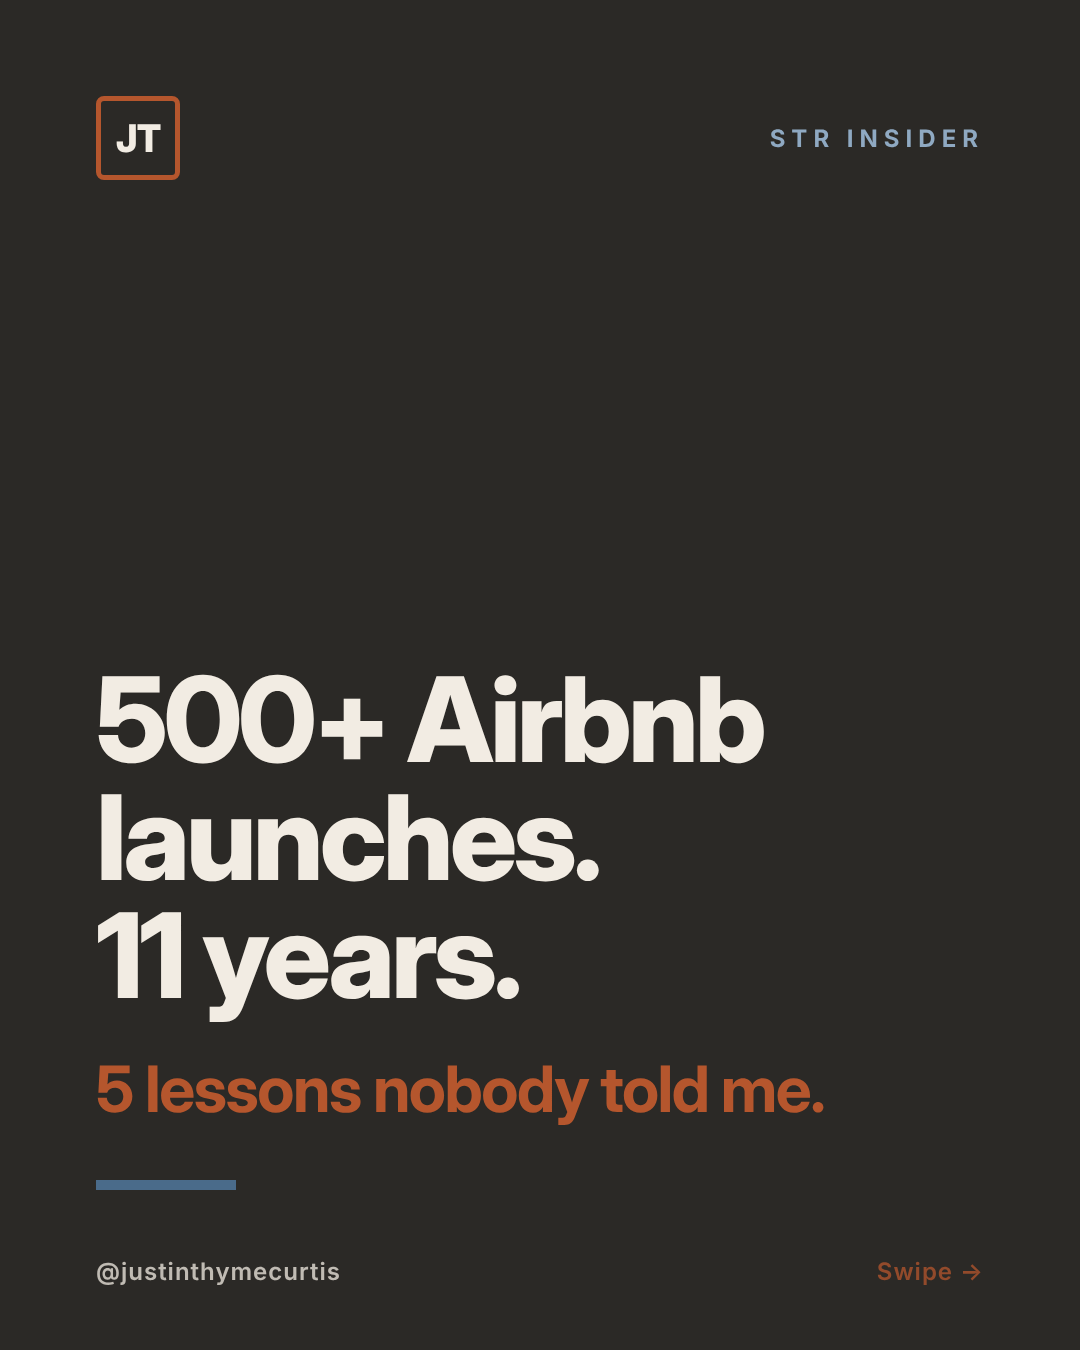
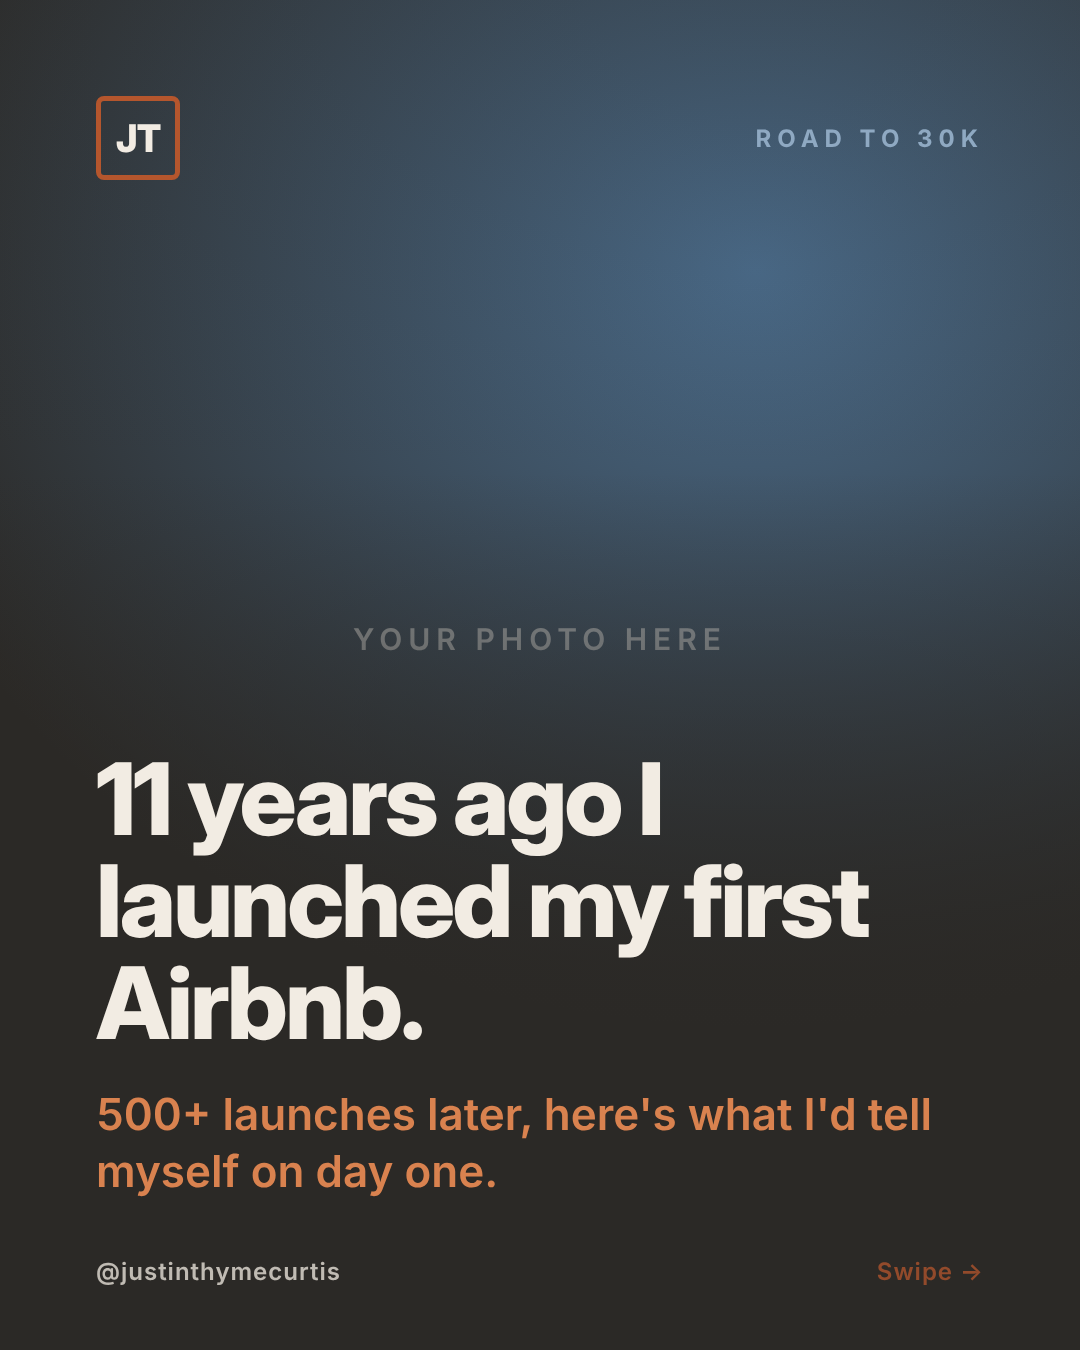
Restyle to founder story format (Bloom model) and add data playbook
Photo story cover, personal notes on lesson slides, headshot on closing slide, style guide with format data and video workflow.

Claude-Session: https://claude.ai/code/session_019QxW33UDb1Vgn4Nz2RddmB

diff --git a/scripts/render_carousel.py b/scripts/render_carousel.py
@@ -5,6 +5,7 @@ Usage:
 
 Output goes to exports/<slug>/slide-01.png and so on.
 """
+import base64
 import html
 import json
 import sys
@@ -19,6 +20,16 @@ W, H = 1080, 1350
 
 def esc(text: str) -> str:
     return html.escape(text).replace("\n", "<br>")
+
+
+def photo_uri(base: Path, rel):
+    if not rel:
+        return None
+    f = (base / rel)
+    if not f.exists():
+        return None
+    mime = "image/png" if f.suffix.lower() == ".png" else "image/jpeg"
+    return f"data:{mime};base64," + base64.b64encode(f.read_bytes()).decode()
 
 
 def monogram(color_text: str) -> str:
@@ -50,13 +61,37 @@ body { font-family: 'Inter', sans-serif; -webkit-font-smoothing: antialiased; }
 .cta h1 { font-family:'Inter Display'; font-weight:800; font-size:132px; letter-spacing:-5px; line-height:1; margin-top:auto; }
 .cta p { font-size:42px; line-height:1.45; margin-top:44px; max-width:880px; opacity:.92; }
 .cta .accent { font-family:'Inter Display'; font-weight:700; font-size:50px; color:%(rust)s; margin-top:56px; line-height:1.2; letter-spacing:-1px; margin-bottom:40px; }
+.story { background:%(charcoal)s; color:%(sand)s; padding:0; }
+.story .bg { position:absolute; inset:0; background-size:cover; background-position:center; }
+.story .ph { position:absolute; inset:0; background:radial-gradient(120%% 80%% at 70%% 20%%, %(denim)s 0%%, %(charcoal)s 70%%); }
+.story .ph span { position:absolute; top:46%%; left:0; right:0; text-align:center; font-size:30px; letter-spacing:6px; opacity:.45; font-weight:600; }
+.story .shade { position:absolute; inset:0; background:linear-gradient(180deg, rgba(43,41,38,.15) 0%%, rgba(43,41,38,0) 35%%, rgba(43,41,38,.88) 72%%, rgba(43,41,38,.97) 100%%); }
+.story .inner { position:relative; height:100%%; padding:96px 96px 150px; display:flex; flex-direction:column; }
+.story h1 { font-family:'Inter Display'; font-weight:800; font-size:100px; line-height:1.02; letter-spacing:-3px; margin-top:auto; }
+.story .accent { font-size:44px; line-height:1.3; margin-top:32px; color:%(rust_light)s; font-weight:600; }
+.lesson .note { margin-top:40px; padding-left:28px; border-left:6px solid %(rust)s; font-size:34px; line-height:1.4; font-style:italic; color:%(denim)s; max-width:860px; }
+.cta .avatar { width:220px; height:220px; border-radius:50%%; background-size:cover; background-position:center; border:6px solid %(rust)s; margin-top:auto; margin-bottom:48px; }
+.cta .avatar + h1 { margin-top:0; }
 """ % {"W": W, "H": H, **PALETTE}
 
 
-def slide_html(s: dict, i: int, total: int, handle: str) -> str:
+def slide_html(s: dict, i: int, total: int, handle: str, base: Path) -> str:
     t = s["type"]
     counter = f"{i}/{total}"
-    if t == "cover":
+    photo = photo_uri(base, s.get("photo"))
+    if t == "story_cover":
+        bg = f'<div class="bg" style="background-image:url({photo})"></div>' if photo else '<div class="ph"><span>YOUR PHOTO HERE</span></div>'
+        body = f"""
+        <div class="slide story">
+          {bg}<div class="shade"></div>
+          <div class="inner">
+            <div class="top">{monogram(PALETTE['sand'])}<div class="kicker">{esc(s['kicker'])}</div></div>
+            <h1>{esc(s['title'])}</h1>
+            <div class="accent">{esc(s['accent'])}</div>
+          </div>
+          <div class="foot"><span>{handle}</span><span class="swipe">{esc(s.get('footer','Swipe'))} &rarr;</span></div>
+        </div>"""
+    elif t == "cover":
         body = f"""
         <div class="slide dark cover">
           <div class="top">{monogram(PALETTE['sand'])}<div class="kicker">{esc(s['kicker'])}</div></div>
@@ -73,12 +108,14 @@ def slide_html(s: dict, i: int, total: int, handle: str) -> str:
           <h2>{esc(s['title'])}</h2>
           <div class="rule"></div>
           <p>{esc(s['body'])}</p>
+          {f'<div class="note">{esc(s["note"])}</div>' if s.get("note") else ''}
           <div class="foot"><span>{handle}</span><span>{counter}</span></div>
         </div>"""
     else:
         body = f"""
         <div class="slide dark cta">
           <div class="top">{monogram(PALETTE['sand'])}<div class="kicker">{esc(s['kicker'])}</div></div>
+          {f'<div class="avatar" style="background-image:url({photo})"></div>' if photo else ''}
           <h1>{esc(s['title'])}</h1>
           <p>{esc(s['body'])}</p>
           <div class="accent">{esc(s['accent'])}</div>
@@ -97,7 +134,7 @@ def main(post_dir: str) -> None:
         browser = p.chromium.launch()
         page = browser.new_page(viewport={"width": W, "height": H})
         for i, s in enumerate(slides, start=1):
-            page.set_content(slide_html(s, i, len(slides), data["handle"]))
+            page.set_content(slide_html(s, i, len(slides), data["handle"], post))
             page.wait_for_timeout(150)
             page.screenshot(path=str(out / f"slide-{i:02d}.png"))
         browser.close()

diff --git a/brand/style-guide.md b/brand/style-guide.md
@@ -1,0 +1,36 @@
+# Style Guide and Data Playbook
+
+## The model: Bloom (Greg LaVecchia and Mari Llewellyn)
+Bloom grew from a founder's personal transformation post into a nine figure brand. What we copy:
+* **Founder story first.** The origin and transformation story is the anchor of trust. For Justin: 11 years, 500+ launches, mindset and discipline.
+* **Routine and day in the life.** Real routines over polished ads. For Justin: launch days, property walkthroughs, training, Sunday planning.
+* **Plain, relatable language.** No hype, no clinical claims. Explain things like a friend would.
+* **Community in the loop.** Ask followers what to cover next and show their input on screen.
+* **Creators and collabs.** Bloom's creator videos averaged roughly 8x the views of its own brand videos. For Justin: collab posts with hosts, investors, trainers, and local San Diego creators.
+* What we do NOT copy: Bloom's pastel palette. Justin's look stays neutral, masculine and warm.
+
+## Data that drives the plan
+* Carousels are the top engagement format on Instagram (about 0.50% vs 0.48% for Reels and 0.33% for images, Socialinsider Q2 2026).
+* For accounts with 1K to 5K followers, carousels average 993 views vs 580 for Reels and 417 for images (Socialinsider).
+* Reels drive the most comments at every account size (Socialinsider). Use Reels for conversation and reach.
+* Carousels earn about 9x more saves than single images, and Reel watch time more than doubled in a year (Metricool, 24M posts studied).
+* Single images are falling every year. Avoid them except for big announcements.
+* 70% of consumers feel more connected to a brand whose CEO is active on social (Sprout Social, via Influencity). Justin's face goes on covers.
+
+## Weekly mix (4 to 6 posts)
+* 2 to 3 carousels: lessons, breakdowns, story posts. Goal: saves and shares.
+* 2 to 3 Reels: day in the life, quick tips, behind the scenes. Goal: comments and reach.
+* Daily Stories: polls and questions, so followers shape the content.
+* Review every Friday in Metricool. Keep the format that earned the most saves and shares, cut what didn't.
+
+## Visual rules
+* Covers: Justin's photo full bleed, dark fade at the bottom, story headline in Inter Display 800.
+* Lesson slides: sand background, big rust number, one idea per slide, an optional italic personal note.
+* Close every carousel with Justin's face and one clear ask (follow, save, or share).
+* Reels: hook text on screen in the first 2 seconds, burned in captions, brand colors on text.
+
+## Video workflow
+* **Edit and trends:** Instagram Edits (free, from Instagram). Use its Inspiration tab for trending audio and its Insights tab for Reel stats.
+* **Trend proof:** CapCut templates show usage counts, which is a quick signal of what's trending. TikTok Creative Center is free and shows rising hashtags and songs with popularity over time.
+* **Claude's part:** Justin uploads raw clips. Claude cuts, crops to 9:16, adds burned in captions and branded hook text with ffmpeg, then saves to `exports/`.
+* **Scheduling:** Metricool, posts for review only.

diff --git a/content/posts/2026-10-12-500-launches-5-lessons/post.md b/content/posts/2026-10-12-500-launches-5-lessons/post.md
@@ -11,13 +11,13 @@ status: in review
 # 500+ Airbnb launches, 5 lessons
 
 ## Hook options (line one of the caption)
-1. 500+ Airbnb launches taught me 5 things nobody tells new hosts.
-2. Most hosts learn these 5 lessons the expensive way.
-3. 11 years. 500+ launches. Here's what actually moves the needle.
+1. 11 years ago I launched my first Airbnb. Here's what I'd tell myself on day one.
+2. 500+ Airbnb launches taught me 5 things nobody tells new hosts.
+3. Most hosts learn these 5 lessons the expensive way.
 
 ## Instagram caption
 
-500+ Airbnb launches taught me 5 things nobody tells new hosts.
+11 years ago I launched my first Airbnb. Here's what I'd tell myself on day one.
 
 When I launched my first short term rental, I thought the house was the product. Nice furniture, good location, done.
 
@@ -50,6 +50,7 @@ Number 5 is the one I come back to in everything, from launches to training to h
 Which one would you add to the list?
 
 ## Shot list / notes
+* Drop a photo of Justin named cover.jpg (vertical, face in the top half) and a headshot named headshot.jpg into this folder, then render again.
 * Post as a 7 slide carousel. Slides are in exports/2026-10-12-500-launches-5-lessons/.
 * Best window: check Metricool best time to post before scheduling.
 * Pin this post to the profile as the intro.

diff --git a/CLAUDE.md b/CLAUDE.md
@@ -19,6 +19,9 @@ Justin has ADHD. One short command should produce a finished, ready to review ou
 * Rotation buckets: Educate, Prove, Personal, Offer. Target 4 to 6 posts a week, 3+ Reels.
 * Nothing posts automatically. Status flow: idea, drafted, in review, approved, scheduled, posted.
 
+## Strategy
+Read `brand/style-guide.md` before planning or writing. It holds the Bloom founder story model, the data behind the format mix, and the video workflow. Never invent personal stories for Justin; ask him for the real one.
+
 ## Folders
 * `brand/` palette, monogram, voice files
 * `content/posts/<date-slug>/` one folder per post: `post.md` (frontmatter, caption, LinkedIn version, notes) and `slides.json` for carousels
